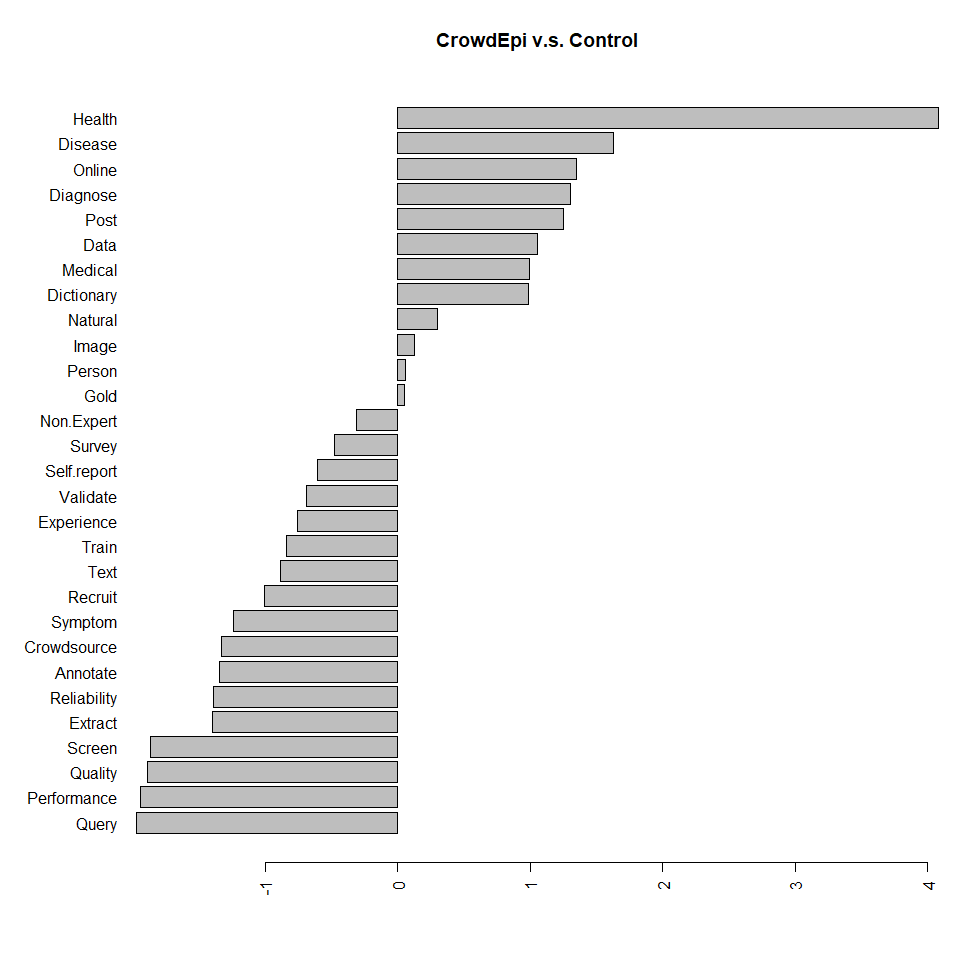
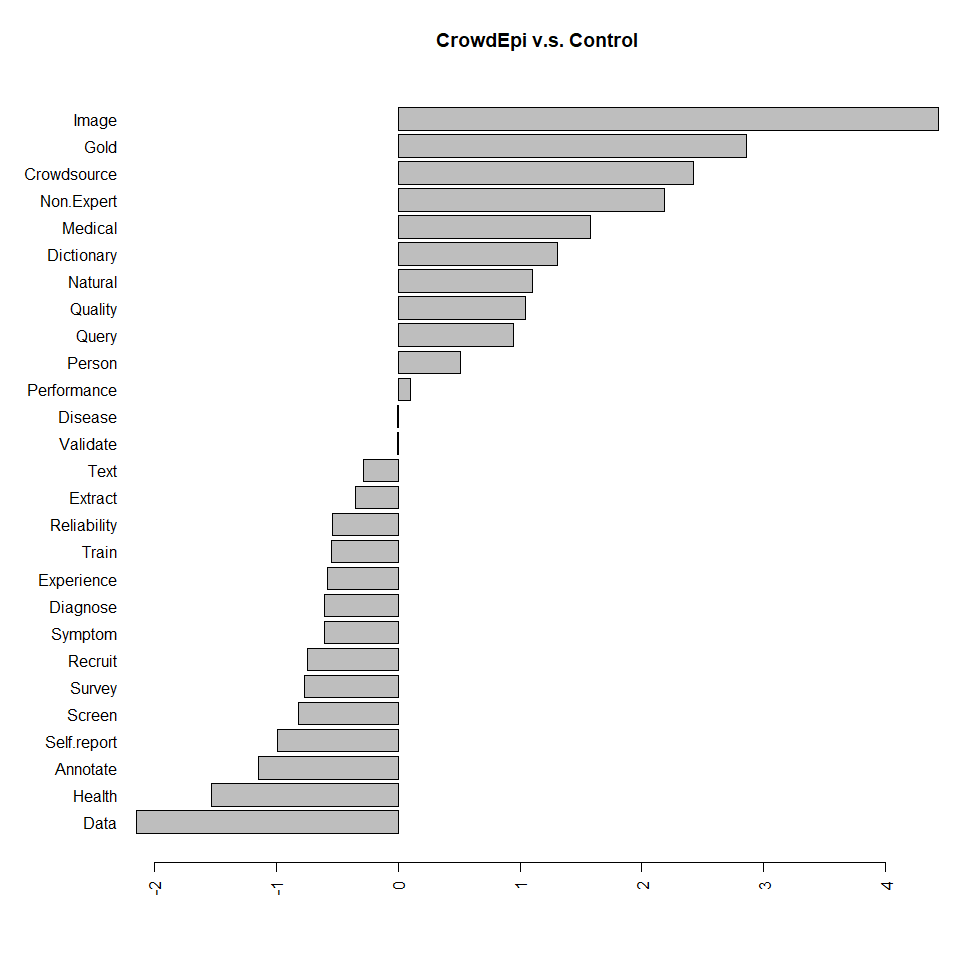
Add files via upload

Changed region(s): [[0.0312, 0.0938, 0.7812, 0.875]]

diff --git a/crawler/Key_Words_Analysis.md b/crawler/Key_Words_Analysis.md
@@ -273,7 +273,14 @@ cc(WF2)
 ### 6. Original data analysis
 
 ```r
-d=read.csv("data-files/data/retagbogusarticles/training updated.csv")
+files=list.files(path='data-files/files/',pattern='*.txt',full.names=FALSE)
+files188=gsub("\\..*","",files)
+un=read.csv("original_data.csv",sep=';')
+rownames(un)=gsub("\\..*","",un$filename)
+#un$filename=gsub("\\..*","",un$filename)
+index_CrowdEpi=intersect(files188,rownames(un))
+index_control=setdiff(rownames(un),index_CrowdEpi)
+d=un[index_CrowdEpi,]
 newd=data.frame(
   Annotate=d$annotate+d$annotated,#;newd=subset(newd,select=-c(annotated))
   #Combine=d$combine,0
@@ -283,7 +290,7 @@ newd=data.frame(
   Dictionary=d$dictionary,
   Disease=d$disease+d$diseases+d$flu+d$virus,
   Experience=d$experience+d$experienced,
-  Extract=d$extract+d$extraction+d$extraction.1+d$extracted,
+  Extract=d$extract+d$extraction+d$extraction.1,#+d$extracted-----
   Gold=d$gold,
   Health=d$health,
   Image=d$image,
@@ -292,10 +299,10 @@ newd=data.frame(
   #Media=d$media
   Natural=d$natural,
   Non.Expert=d$non.expert,
-  Online=d$online+d$online.1,#+d$online.2
+  #Online=d$online+d$online.1,#+d$online.2-----
   Performance=d$performance,
   Person=d$user+d$user.1+d$users+d$users.1+d$player+d$players+d$individual+d$individuals+d$turkers+d$respondents+d$workers+d$participant+d$participants+d$people,
-  Post=d$post.1+d$posting.1+d$posts.1+d$post+d$posts,
+  #Post=d$post.1+d$posting.1+d$posts.1+d$post+d$posts,-----
   Quality=d$quality,
   Query=d$query,
   Recruit=d$recruit+d$recruitment,
@@ -313,9 +320,50 @@ newd=data.frame(
 md=as.matrix(newd)
 #head(md[,c(30,1:7)],20)
 
+d2=un[index_control,]
+newd2=data.frame(
+  Annotate=d2$annotate+d2$annotated,#;newd=subset(newd,select=-c(annotated))
+  #Combine=d2$combine,0
+  Crowdsource=d2$crowd+d2$crowdsource+d2$crowd.source+d2$crowdsourced+d2$crowd.sourced+d2$crowdsourcing+d2$crowd.sourcing+d2$X23andme+d2$patientslikeme+d2$citizen+d2$citizens+d2$turk+d2$amazon+d2$microtask,
+  Data=d2$data,
+  Diagnose=d2$diagnose+d2$diagnosis,
+  Dictionary=d2$dictionary,
+  Disease=d2$disease+d2$diseases+d2$flu+d2$virus,
+  Experience=d2$experience+d2$experienced,
+  Extract=d2$extract+d2$extraction+d2$extraction.1,#+d2$extracted
+  Gold=d2$gold,
+  Health=d2$health,
+  Image=d2$image,
+  #Knowledge=d2$knowledge,0
+  Medical=d2$medical,
+  #Media=d2$media
+  Natural=d2$natural,
+  Non.Expert=d2$non.expert,
+  #Online=d2$online+d2$online.1,#+d2$online.2
+  Performance=d2$performance,
+  Person=d2$user+d2$user.1+d2$users+d2$users.1+d2$player+d2$players+d2$individual+d2$individuals+d2$turkers+d2$respondents+d2$workers+d2$participant+d2$participants+d2$people,
+  #Post=d2$post.1+d2$posting.1+d2$posts.1+d2$post+d2$posts,
+  Quality=d2$quality,
+  Query=d2$query,
+  Recruit=d2$recruit+d2$recruitment,
+  Reliability=d2$reliability,
+  Screen=d2$screen,
+  Self.report=d2$self.report+d2$self.reported+d2$patient.reported,
+  Survey=d2$survey,
+  Symptom=d2$symptom,
+  Text=d2$text,
+  Train=d2$train+d2$trained,
+  #d2$tweet
+  Validate=d2$validate+d2$validated+d2$validation,
+  Numword=d2$numWord
+)
+md2=as.matrix(newd2)
+
 s=colSums(md)
+s2=colSums(md2)
 r=s[length(s)]/s2[length(s2)]
 s[s==0]=0.1*r
+s2[s2==0]=0.1
 WF=cbind(t(t(s)),t(t(s2)))
 colnames(WF)=c('CrowdEpi','Control')
 # WF_print=cbind(colnames(newd),
@@ -328,36 +376,34 @@ WF
 
 ```
 ##             CrowdEpi Control
-## Annotate          46     229
-## Crowdsource      946    3715
-## Data              46      44
-## Diagnose          74      60
-## Dictionary        20      20
-## Disease          445     303
-## Experience       146     481
-## Extract           99     501
-## Gold              58     111
-## Health          1913     339
-## Image             27      49
-## Medical          390     403
-## Natural           18      29
-## Non.Expert        13      32
-## Online            41      32
-## Performance      220    1498
-## Person            81     154
-## Post               6       5
-## Quality           14     102
-## Query             20     154
-## Recruit           48     189
-## Reliability       61     311
-## Screen            22     157
-## Self.report       50     150
-## Survey           272     737
-## Symptom            9      42
-## Text               6      22
-## Train             11      39
-## Validate         177     554
-## Numword       514048 1417653
+## Annotate          16      29
+## Crowdsource      789     157
+## Data              10      36
+## Diagnose          33      41
+## Dictionary        15       5
+## Disease          241     198
+## Experience        64      78
+## Extract           48      50
+## Gold              52       6
+## Health           719    1153
+## Image             26       1
+## Medical          300      89
+## Natural           13       5
+## Non.Expert        11       2
+## Performance      113      87
+## Person            50      29
+## Quality           10       4
+## Query             14       6
+## Recruit           19      26
+## Reliability       26      31
+## Screen             9      13
+## Self.report       16      26
+## Survey           112     153
+## Symptom            4       5
+## Text               3       3
+## Train              5       6
+## Validate          97      80
+## Numword       238928  239763
 ```
 
 #### Analysis of Log Odds Ratio
